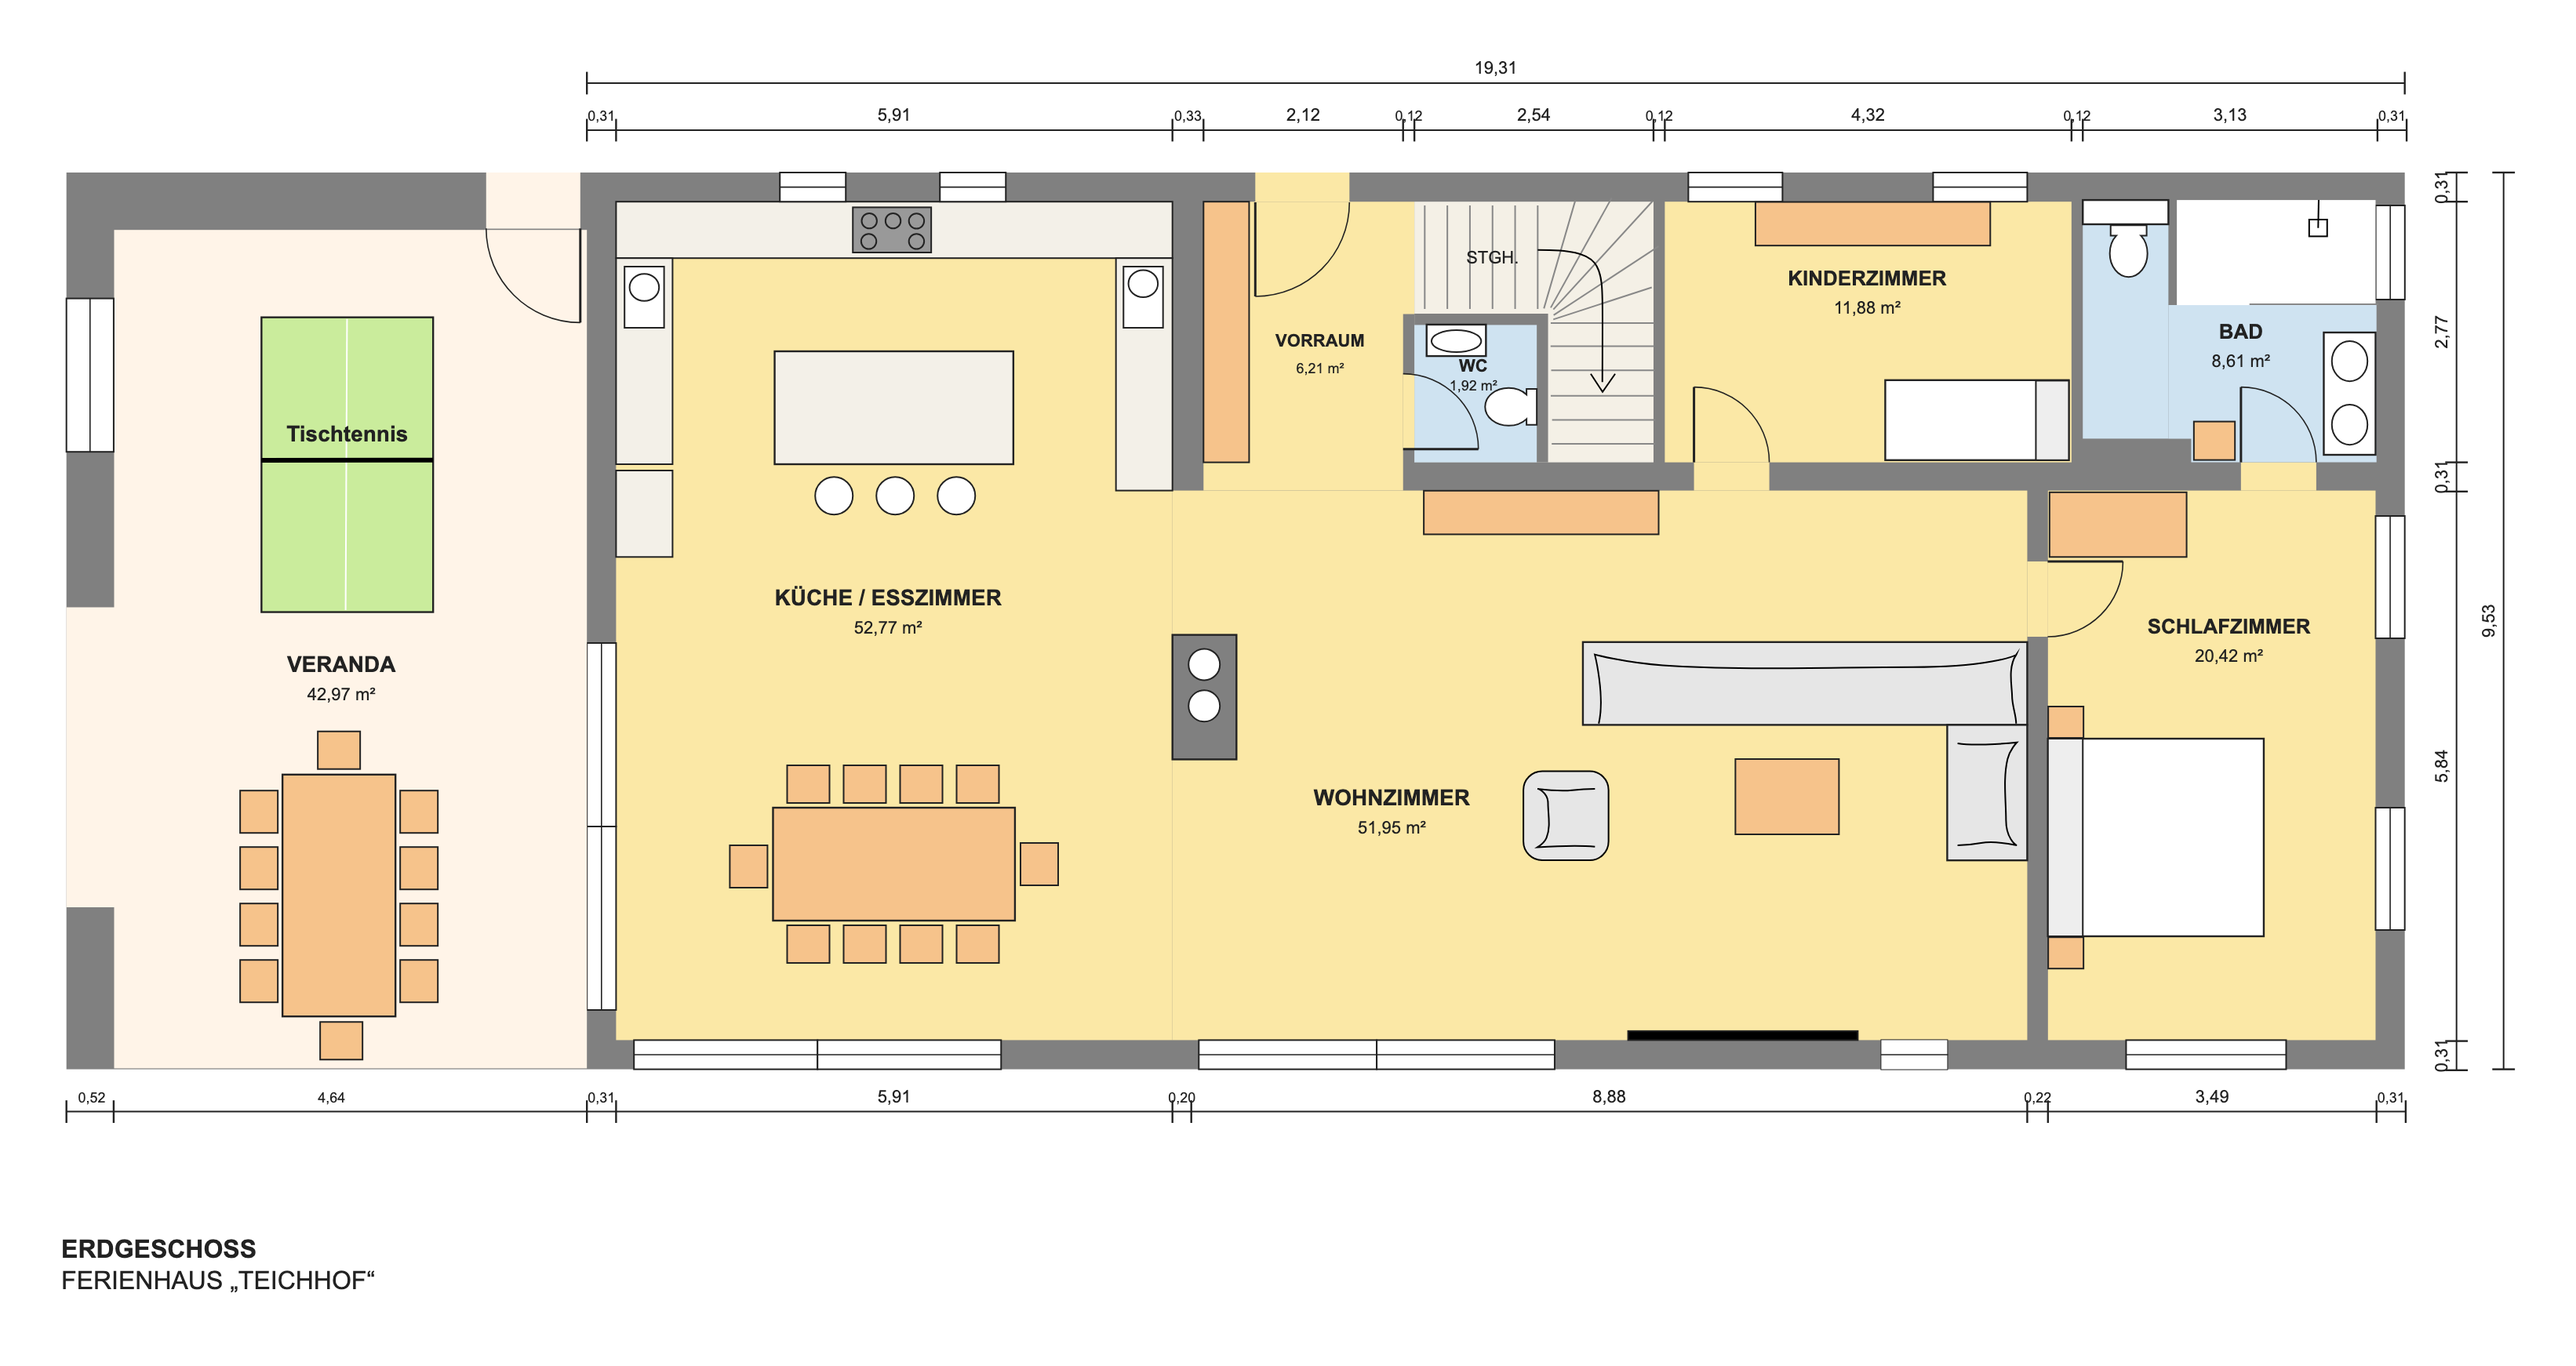
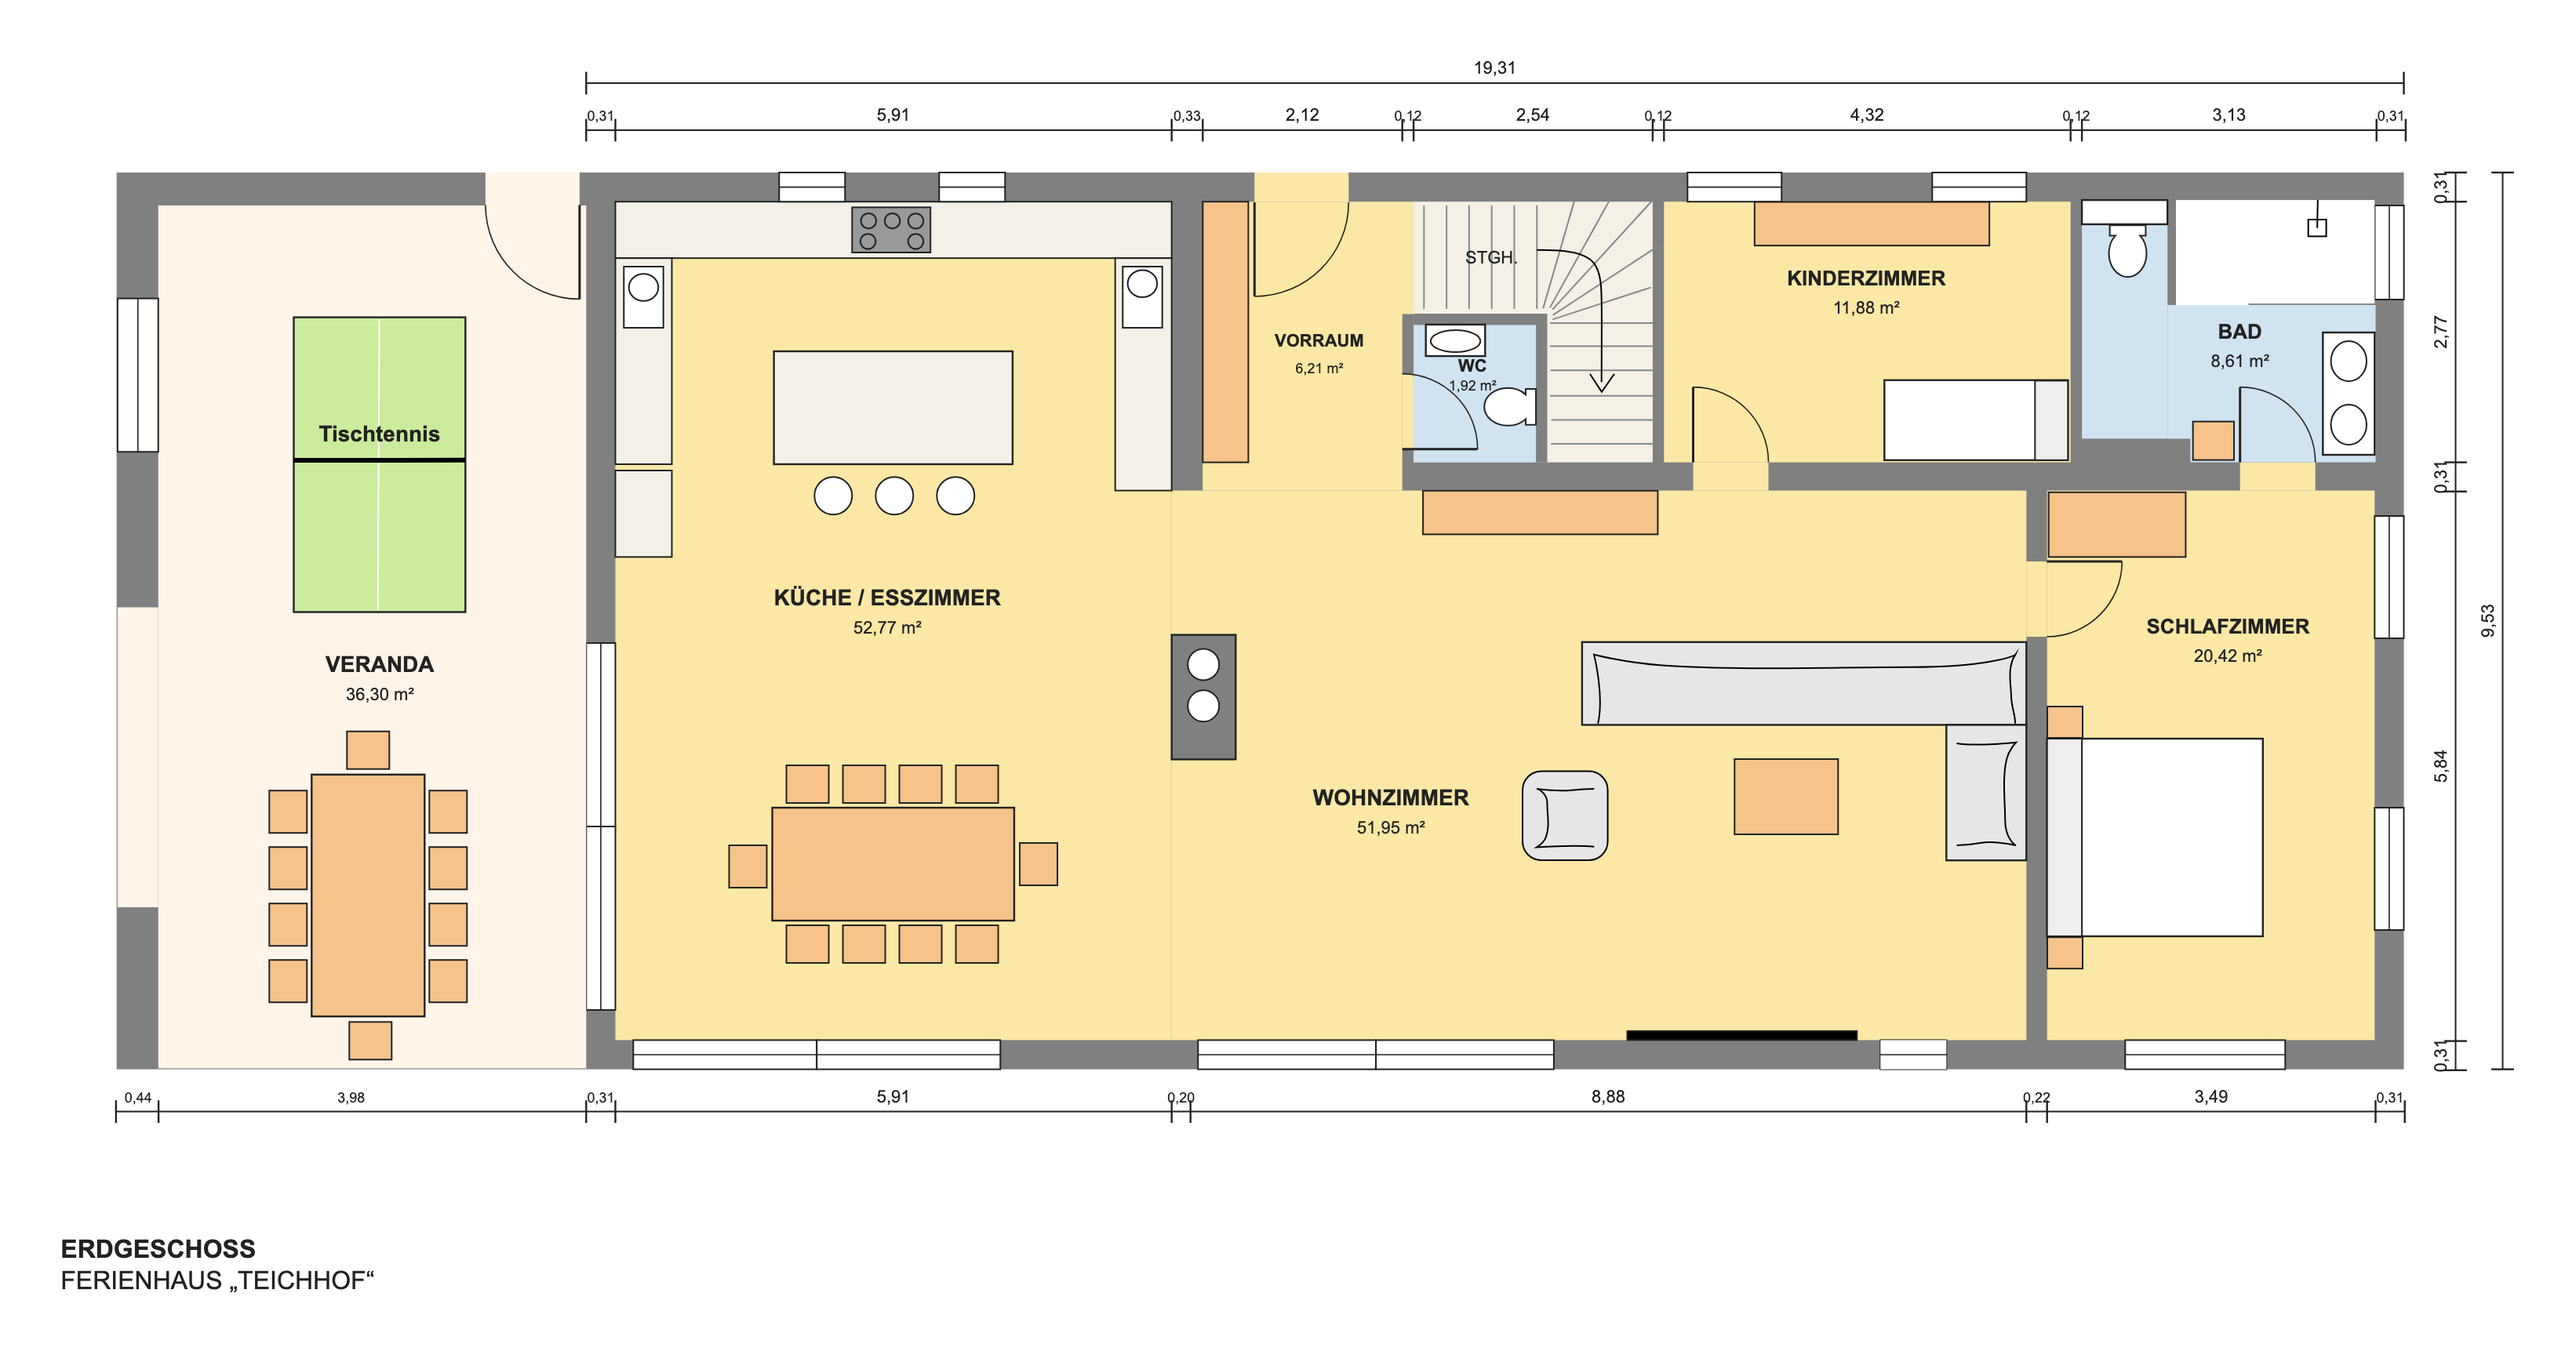
Deploy built site from 646bd87

diff --git a/en/floor-plan/index.html b/en/floor-plan/index.html
@@ -6,5 +6,5 @@
 <body class="legal-page plans-page"><div class="legal-top"><a class="footer-brand" href="/en/">TEICHHOF</a><a href="/en/"><svg class="arrow-icon arrow-icon--left" xmlns="http://www.w3.org/2000/svg" viewBox="0 0 24 24" width="24" height="24" fill="none" stroke="currentColor" stroke-width="1.5" stroke-linecap="round" stroke-linejoin="round" aria-hidden="true" focusable="false"><path d="M4 12h16m-7-7 7 7-7 7"></path></svg> Back to website</a><a class="button cream header-cta" href="/en/#buchungswahl">Book <span><svg class="arrow-icon arrow-icon--down" xmlns="http://www.w3.org/2000/svg" viewBox="0 0 24 24" width="24" height="24" fill="none" stroke="currentColor" stroke-width="1.5" stroke-linecap="round" stroke-linejoin="round" aria-hidden="true" focusable="false"><path d="M4 12h16m-7-7 7 7-7 7"></path></svg></span></a></div>
 <main class="legal-content section plans-content"><p class="eyebrow">TEICHHOF</p><h1>Floor plan</h1>
 <p class="plans-intro">The whole house is yours: 7 rooms and 3 bathrooms on two floors, space for up to 10 guests.</p>
-<section class="plan" id="erdgeschoss"><h2>Ground floor</h2><p>Kitchen and dining room, living room, bedroom, children&#x27;s room, bathroom, WC, hallway and veranda.</p><a class="plan-link" href="/assets/grundriss-erdgeschoss.svg?v=4f690a64" target="_blank" rel="noopener" aria-label="Ground floor – open full size"><img src="/assets/grundriss-erdgeschoss.svg?v=4f690a64" alt="Ground floor plan of Teichhof with kitchen and dining room, living room, bedroom, children&#x27;s room, bathroom, WC and hallway" width="1642" height="871" loading="lazy" decoding="async"></a><p class="plan-actions"><a href="/assets/grundriss-erdgeschoss.svg?v=4f690a64" target="_blank" rel="noopener">Open plan in full size</a> · <a href="/assets/grundriss-erdgeschoss.png?v=4f690a64" download>Save as image (PNG)</a></p></section><section class="plan" id="obergeschoss"><h2>Upper floor</h2><p>Bedrooms, bathrooms, gallery landing and corridor with access to the balcony. The upper floor has sloping ceilings.</p><a class="plan-link" href="/assets/grundriss-obergeschoss.svg?v=52cc4151" target="_blank" rel="noopener" aria-label="Upper floor – open full size"><img src="/assets/grundriss-obergeschoss.svg?v=52cc4151" alt="Upper floor plan of Teichhof with bedrooms, bathroom, shower/WC, gallery landing, corridor and balcony" width="1580" height="871" loading="lazy" decoding="async"></a><p class="plan-actions"><a href="/assets/grundriss-obergeschoss.svg?v=52cc4151" target="_blank" rel="noopener">Open plan in full size</a> · <a href="/assets/grundriss-obergeschoss.png?v=52cc4151" download>Save as image (PNG)</a></p></section><p class="plans-note">The plans show the layout of the rooms. Furnishings and dimensions may differ in detail.</p></main>
+<section class="plan" id="erdgeschoss"><h2>Ground floor</h2><p>Kitchen and dining room, living room, bedroom, children&#x27;s room, bathroom, WC, hallway and veranda.</p><a class="plan-link" href="/assets/grundriss-erdgeschoss.svg?v=acd8c2f2" target="_blank" rel="noopener" aria-label="Ground floor – open full size"><img src="/assets/grundriss-erdgeschoss.svg?v=acd8c2f2" alt="Ground floor plan of Teichhof with kitchen and dining room, living room, bedroom, children&#x27;s room, bathroom, WC and hallway" width="1642" height="871" loading="lazy" decoding="async"></a><p class="plan-actions"><a href="/assets/grundriss-erdgeschoss.svg?v=acd8c2f2" target="_blank" rel="noopener">Open plan in full size</a> · <a href="/assets/grundriss-erdgeschoss.png?v=acd8c2f2" download>Save as image (PNG)</a></p></section><section class="plan" id="obergeschoss"><h2>Upper floor</h2><p>Bedrooms, bathrooms, gallery landing and corridor with access to the balcony. The upper floor has sloping ceilings.</p><a class="plan-link" href="/assets/grundriss-obergeschoss.svg?v=52cc4151" target="_blank" rel="noopener" aria-label="Upper floor – open full size"><img src="/assets/grundriss-obergeschoss.svg?v=52cc4151" alt="Upper floor plan of Teichhof with bedrooms, bathroom, shower/WC, gallery landing, corridor and balcony" width="1580" height="871" loading="lazy" decoding="async"></a><p class="plan-actions"><a href="/assets/grundriss-obergeschoss.svg?v=52cc4151" target="_blank" rel="noopener">Open plan in full size</a> · <a href="/assets/grundriss-obergeschoss.png?v=52cc4151" download>Save as image (PNG)</a></p></section><p class="plans-note">The plans show the layout of the rooms. Furnishings and dimensions may differ in detail.</p></main>
 <footer><a href="/en/">Back to Teichhof</a></footer></body></html>

diff --git a/grundriss/index.html b/grundriss/index.html
@@ -6,5 +6,5 @@
 <body class="legal-page plans-page"><div class="legal-top"><a class="footer-brand" href="/">TEICHHOF</a><a href="/"><svg class="arrow-icon arrow-icon--left" xmlns="http://www.w3.org/2000/svg" viewBox="0 0 24 24" width="24" height="24" fill="none" stroke="currentColor" stroke-width="1.5" stroke-linecap="round" stroke-linejoin="round" aria-hidden="true" focusable="false"><path d="M4 12h16m-7-7 7 7-7 7"></path></svg> Zur Website</a><a class="button cream header-cta" href="/#buchungswahl">Buchen <span><svg class="arrow-icon arrow-icon--down" xmlns="http://www.w3.org/2000/svg" viewBox="0 0 24 24" width="24" height="24" fill="none" stroke="currentColor" stroke-width="1.5" stroke-linecap="round" stroke-linejoin="round" aria-hidden="true" focusable="false"><path d="M4 12h16m-7-7 7 7-7 7"></path></svg></span></a></div>
 <main class="legal-content section plans-content"><p class="eyebrow">TEICHHOF</p><h1>Grundriss</h1>
 <p class="plans-intro">Das ganze Haus gehört euch: 7 Zimmer und 3 Bäder auf zwei Etagen, Platz für bis zu 10 Gäste.</p>
-<section class="plan" id="erdgeschoss"><h2>Erdgeschoss</h2><p>Küche und Esszimmer, Wohnzimmer, Schlafzimmer, Kinderzimmer, Bad, WC, Vorraum und Veranda.</p><a class="plan-link" href="/assets/grundriss-erdgeschoss.svg?v=4f690a64" target="_blank" rel="noopener" aria-label="Erdgeschoss – in voller Größe öffnen"><img src="/assets/grundriss-erdgeschoss.svg?v=4f690a64" alt="Grundriss Erdgeschoss des Teichhofs mit Küche und Esszimmer, Wohnzimmer, Schlafzimmer, Kinderzimmer, Bad, WC und Vorraum" width="1642" height="871" loading="lazy" decoding="async"></a><p class="plan-actions"><a href="/assets/grundriss-erdgeschoss.svg?v=4f690a64" target="_blank" rel="noopener">Plan in voller Größe öffnen</a> · <a href="/assets/grundriss-erdgeschoss.png?v=4f690a64" download>Als Bild (PNG) speichern</a></p></section><section class="plan" id="obergeschoss"><h2>Obergeschoss</h2><p>Schlafzimmer, Bäder, Empore und Gang mit Zugang zum Balkon. Im Obergeschoss gibt es Dachschrägen.</p><a class="plan-link" href="/assets/grundriss-obergeschoss.svg?v=52cc4151" target="_blank" rel="noopener" aria-label="Obergeschoss – in voller Größe öffnen"><img src="/assets/grundriss-obergeschoss.svg?v=52cc4151" alt="Grundriss Obergeschoss des Teichhofs mit Schlafzimmern, Bad, Du./WC, Empore, Gang und Balkon" width="1580" height="871" loading="lazy" decoding="async"></a><p class="plan-actions"><a href="/assets/grundriss-obergeschoss.svg?v=52cc4151" target="_blank" rel="noopener">Plan in voller Größe öffnen</a> · <a href="/assets/grundriss-obergeschoss.png?v=52cc4151" download>Als Bild (PNG) speichern</a></p></section><p class="plans-note">Die Pläne zeigen die Raumaufteilung. Einrichtung und Maße können im Detail abweichen.</p></main>
+<section class="plan" id="erdgeschoss"><h2>Erdgeschoss</h2><p>Küche und Esszimmer, Wohnzimmer, Schlafzimmer, Kinderzimmer, Bad, WC, Vorraum und Veranda.</p><a class="plan-link" href="/assets/grundriss-erdgeschoss.svg?v=acd8c2f2" target="_blank" rel="noopener" aria-label="Erdgeschoss – in voller Größe öffnen"><img src="/assets/grundriss-erdgeschoss.svg?v=acd8c2f2" alt="Grundriss Erdgeschoss des Teichhofs mit Küche und Esszimmer, Wohnzimmer, Schlafzimmer, Kinderzimmer, Bad, WC und Vorraum" width="1642" height="871" loading="lazy" decoding="async"></a><p class="plan-actions"><a href="/assets/grundriss-erdgeschoss.svg?v=acd8c2f2" target="_blank" rel="noopener">Plan in voller Größe öffnen</a> · <a href="/assets/grundriss-erdgeschoss.png?v=acd8c2f2" download>Als Bild (PNG) speichern</a></p></section><section class="plan" id="obergeschoss"><h2>Obergeschoss</h2><p>Schlafzimmer, Bäder, Empore und Gang mit Zugang zum Balkon. Im Obergeschoss gibt es Dachschrägen.</p><a class="plan-link" href="/assets/grundriss-obergeschoss.svg?v=52cc4151" target="_blank" rel="noopener" aria-label="Obergeschoss – in voller Größe öffnen"><img src="/assets/grundriss-obergeschoss.svg?v=52cc4151" alt="Grundriss Obergeschoss des Teichhofs mit Schlafzimmern, Bad, Du./WC, Empore, Gang und Balkon" width="1580" height="871" loading="lazy" decoding="async"></a><p class="plan-actions"><a href="/assets/grundriss-obergeschoss.svg?v=52cc4151" target="_blank" rel="noopener">Plan in voller Größe öffnen</a> · <a href="/assets/grundriss-obergeschoss.png?v=52cc4151" download>Als Bild (PNG) speichern</a></p></section><p class="plans-note">Die Pläne zeigen die Raumaufteilung. Einrichtung und Maße können im Detail abweichen.</p></main>
 <footer><a href="/">Zurück zum Teichhof</a></footer></body></html>
